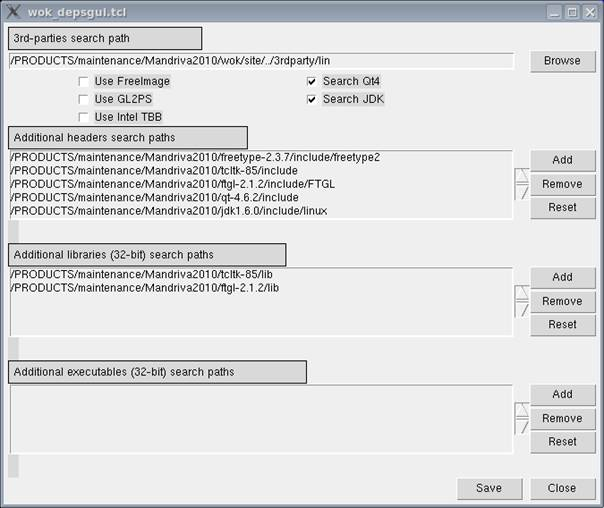
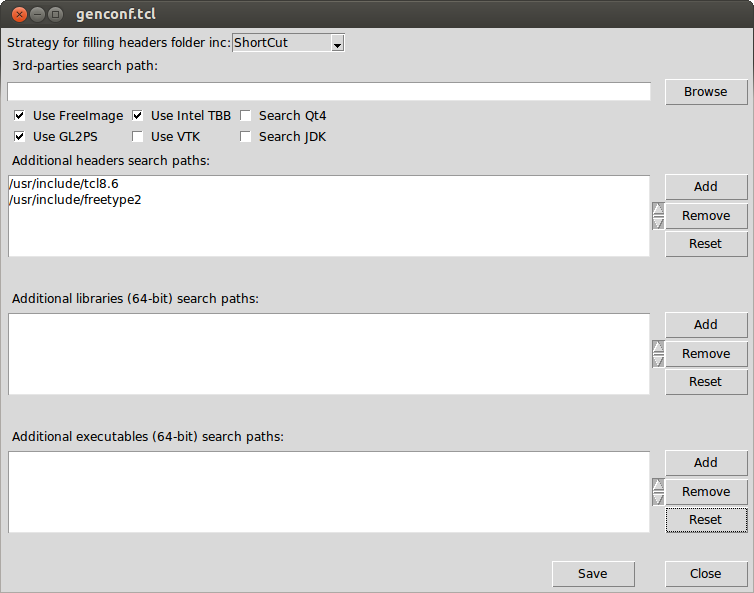
0026846: Configuration, genproj.tcl - create hardlinks instead for header redirection
Build guides updated accordingly

Update genconf screenshot for Linux

Changed region(s): [[0.0, 0.0, 1.0, 1.0]]

diff --git a/dox/dev_guides/building/msvc.md b/dox/dev_guides/building/msvc.md
@@ -30,13 +30,16 @@ If you have Visual Studio projects already available (pre-installed or generated
 * *ARCH* -- architecture (32 or 64), affects only *PATH* variable for execution
 * <i>HAVE_*</i> -- flags to enable or disable use of optional third-party products
 * <i>CSF_OPT_*</i> -- paths to search for includes and binaries of all used  third-party products
-* *SHORTCUT_HEADERS* -- if set to "true", folder *inc* will be populated by short-cut files pointing to actual headers located in *src*; otherwise, header files will be copied to *inc*.
+* *SHORTCUT_HEADERS* -- defines method for population of folder *inc* by header files. Supported methods are:
+  * *Copy* - headers will be copied from *src*;
+  * *ShortCut* - short-cut header files will be created, redirecting to same-named header located in *src*;
+  * "HardLink* - hard links to headers located in *src* will be created.
 
 Alternatively, you can launch **genconf**, a GUI tool allowing to configure build options interactively.
 That tool will analyze your environment and propose you to choose available options:
 
 * Version of Visual Studio to be used (from the list of installed ones, detected by presence of environment variables like *VS100COMNTOOLS*)
-* Option to use short-cuts to header files in folder *inc* (enabled by default).
+* Method to populate folder *inc* (short-cuts by default).
 * Location of third-party libraries (usually downloaded from OCCT web site, see above).
 * Path to common directory where third-party libraries are located (optional)
 * Paths to headers and binaries of the third-party libraries (found automatically basing on previous options; click button "Reset" to update).

diff --git a/dox/dev_guides/building/xcode.md b/dox/dev_guides/building/xcode.md
@@ -21,7 +21,10 @@ The environment is defined in the file *custom.sh* which can be edited directly:
 
 * Add paths to includes of used third-party libraries in variable *CSF_OPT_INC* (use colon ":" as path separator).
 * Add paths to their binary libraries in variable  *CSF_OPT_LIB64*.
-* Set variable *SHORTCUT_HEADERS* to "true" to have folder *inc* populated by short-cut files pointing to actual headers located in *src*; otherwise, header files will be copied to *inc*.
+* Set variable *SHORTCUT_HEADERS* to specify a method for population of folder *inc* by header files. Supported methods are:
+  * *Copy* - headers will be copied from *src*;
+  * *ShortCut* - short-cut header files will be created, redirecting to same-named header located in *src*;
+  * "HardLink* - hard links to headers located in *src* will be created.
 * For optional  third-party libraries, set corresponding environment variable <i>HAVE_<LIBRARY_NAME></i> to either *false*,  e.g.:
 ~~~~~
        export HAVE_GL2PS=false

diff --git a/dox/dev_guides/building/code_blocks.md b/dox/dev_guides/building/code_blocks.md
@@ -20,7 +20,10 @@ The environment is defined in the file *custom.sh* (on Linux and OS X) or *custo
 
 * Add paths to includes of used third-party libraries in variable *CSF_OPT_INC*. 
 * Add paths to their binary libraries in variable  *CSF_OPT_LIB64*.
-* Set variable *SHORTCUT_HEADERS* to "true" to have folder *inc* populated by short-cut files pointing to actual headers located in *src*; otherwise, header files will be copied to *inc*.
+* Set variable *SHORTCUT_HEADERS* to specify a method for population of folder *inc* by header files. Supported methods are:
+  * *Copy* - headers will be copied from *src*;
+  * *ShortCut* - short-cut header files will be created, redirecting to same-named header located in *src*;
+  * "HardLink* - hard links to headers located in *src* will be created.
 * For optional  third-party libraries, set corresponding environment variable <i>HAVE_<LIBRARY_NAME></i> to either *false*,  e.g.:
 ~~~~~
        export HAVE_GL2PS=false
